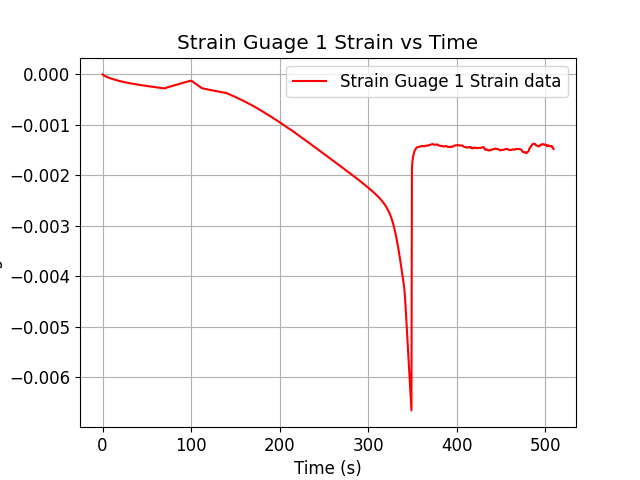
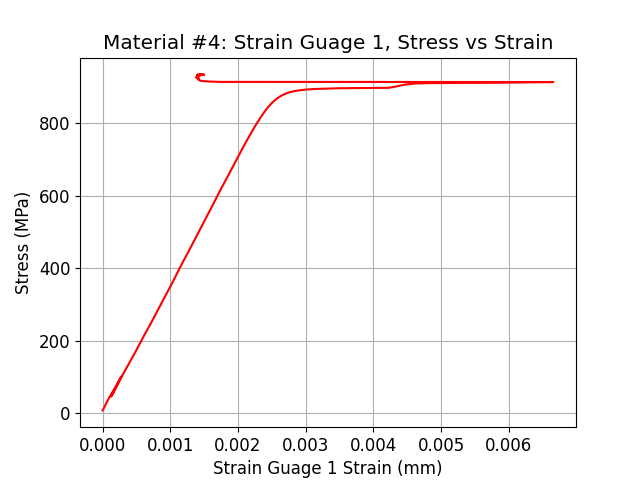
Fixed graphs to be stress vs strain

diff --git a/src/main.py b/src/main.py
@@ -35,7 +35,7 @@ for test_num in range(1,6):
 
     print("=========================================")
     print("Loading Data for Sample #" + str(test_num) + "...")
-    print("=========================================")
+    # print("=========================================")
 
     # LOADING TEST DATA
     ##############################
@@ -43,7 +43,7 @@ for test_num in range(1,6):
 
 
     # Rename columns
-    raw_data = raw_data.rename(columns={'X_Value': 't', 'Untitled': 'MTS_F', 'Untitled 1': 'MTS', 'Untitled 2': 'Laser', 'Untitled 3': 'Strain Guage 1', 'Untitled 4': 'Strain Guage 2'})
+    parsed_data = raw_data.rename(columns={'X_Value': 't', 'Untitled': 'MTS_F', 'Untitled 1': 'MTS', 'Untitled 2': 'Laser', 'Untitled 3': 'Strain Guage 1', 'Untitled 4': 'Strain Guage 2', 'Untitled 5': 'MTS_stress'})
     
   
     # PROCESSING DATA
@@ -52,20 +52,26 @@ for test_num in range(1,6):
     print("Beginning Analysis...")
     print("=========================================")
 
-    stress = raw_data['MTS_F'] / (sample_dimensions['B' + str(test_num)]['width'] * sample_dimensions['B' + str(test_num)]['thickness'])
-    Laser_strain = (raw_data['Laser']-raw_data['Laser'][0])/raw_data['Laser'][0]
-    MTS_strain = (raw_data['MTS']-raw_data['MTS'][0])/raw_data['MTS'][0]
+    parsed_data.MTS_stress = parsed_data['MTS_F'] / (sample_dimensions['B' + str(test_num)]['width'] * sample_dimensions['B' + str(test_num)]['thickness'])
+    parsed_data.Laser = ((parsed_data['Laser']-parsed_data['Laser'][0])/parsed_data['Laser'][0])
+    parsed_data.MTS = -((parsed_data['MTS']-parsed_data['MTS'][0])/parsed_data['MTS'][0])
+    parsed_data['Strain Guage 1'] = -1 * parsed_data['Strain Guage 1'][0:800]
+    parsed_data['Strain Guage 2'] =      parsed_data['Strain Guage 2'][0:800]
 
+    if test_num == 1:
+        parsed_data.Laser = parsed_data.Laser[0:985] # Filtering out noise
+
+    # print(parsed_data)
     print("Analysis Complete...")
     print("=========================================")
-
 
     # PROCESSING DATA
     ########################
 
     sensor = ['MTS', 'Laser', 'Strain Guage 1', 'Strain Guage 2']
-    save = False
-    StrainGraph(raw_data, test_num, sensor, save)
+    save = True
+    StrainGraph(parsed_data, test_num, sensor, save)
+    print("=========================================")
 
     # print("Saving Data CSVs...")
     # Saving data raw data to CSV

diff --git a/src/graphing.py b/src/graphing.py
@@ -27,18 +27,24 @@ def StrainGraph(data: pd.DataFrame, test_num: np.int8, sensor: np.array, save: b
     save : bool
         save graphs or not
     '''
+    # finding plot limits:
+    max_strain = max(data[['MTS', 'Laser', 'Strain Guage 1', 'Strain Guage 2']].max(axis=1))
+    max_stress = max(data['MTS_stress'])
 
     for s in sensor:
         print(" Generating " + str(s) + " strain plot..")
-        plt.plot(data.t, data[s], color = 'r')
+        plt.plot(data[s], data.MTS_stress, color = 'r')
         params = {'mathtext.default': 'regular' }          
         plt.rcParams.update(params)
         plt.rcParams.update({'font.size': 12})
-        plt.title(str(s) + ' Strain vs Time')
-        plt.xlabel('Time (s)')
-        plt.ylabel(str(s) + ' Strain (mm)')
-        plt.legend([str(s) + ' Strain data'])
+        plt.title(f'Material #{test_num}: {str(s)}, Stress vs Strain')
+        plt.xlabel(str(s) + ' Strain (mm)')
+        plt.ylabel('Stress (MPa)')
+        # plt.legend([str(s) + ' Data - Material #' + str(test_num)])
         plt.grid()
+        if s not in ['Strain Guage 1', 'Strain Guage 2']:
+            plt.xlim((max_strain*-0.1,max_strain*1.1))
+            plt.ylim((max_stress*-0.1,max_stress*1.1))
         if save:
             os.makedirs(f'results/Test_{test_num}-graphs/', exist_ok=True)
             plt.savefig(f'results/Test_{test_num}-graphs/{s}_strain.png')
